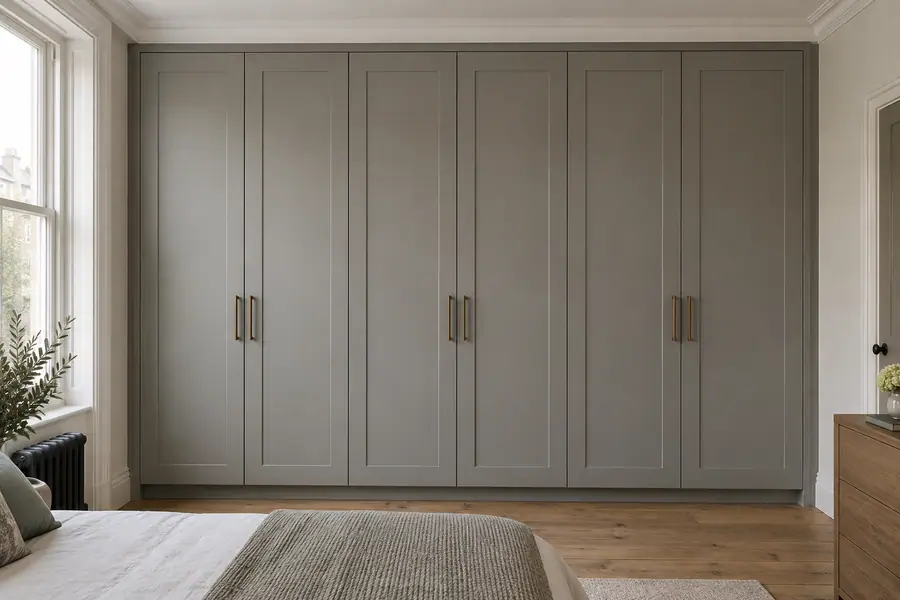
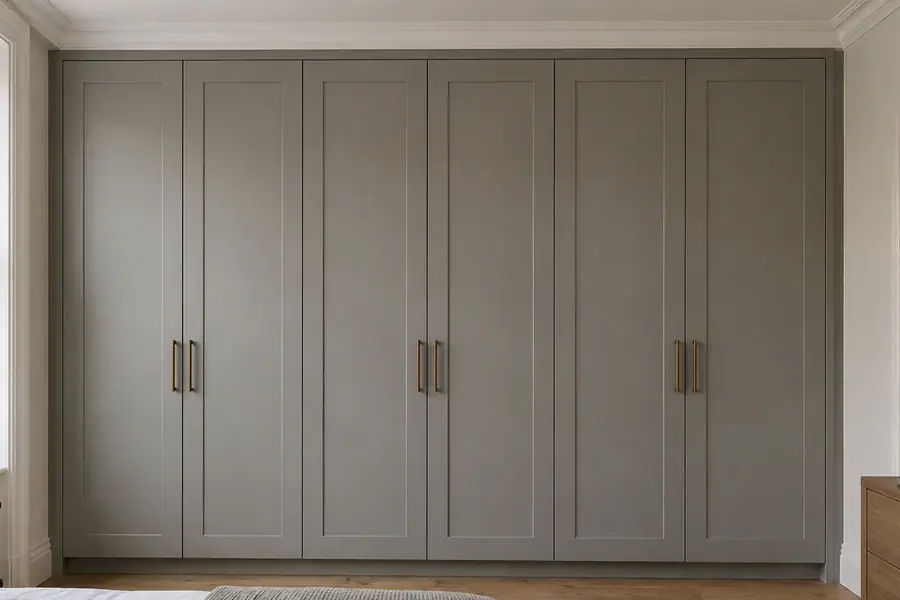
Camden: the grey wardrobe render cropped so the plant and the flowers are out of frame (Denis, 21 Nov)
Denis on the review link, 21 Nov 2026: "remove the plan[t] from this picture". Cropped from x 146 to
1335 x 890 (3:2) rather than painted out over the window and radiator or made again, so the joinery
Denis already passed on 19 Nov is untouched. The alt says what is now at the edges.

diff --git a/src/data/areas.ts b/src/data/areas.ts
@@ -152,12 +152,16 @@ export const AREAS: Area[] = [
       /* 19 Nov 2026, Denis: a framed picture on the wall ran into the door frame; it was painted
          out of the render (plain wall, filled from the wall above and below it). */
       {
+        /* 21 Nov 2026, Denis on the review link: "remove the plan[t] from this picture". Cropped (from
+           x 146 of the 1536 x 1024 render, 1335 x 890, still 3:2) so the plant by the window on the left
+           and the flowers on the chest of drawers on the right are out of frame, rather than painted
+           out over the window and radiator or made again. */
         file: "/images/journal/camden-ai-grey-shaker-wardrobes.webp",
         type: "Grey Shaker-style wardrobes",
         ai: true,
-        width: 1536,
-        height: 1024,
-        alt: "A wall-to-wall wardrobe with six full-height Shaker-style doors in three pairs, painted warm mid-grey, with slim aged-brass bar handles where each pair meets. The room's cornice runs across the top above a slim infill, slim side infills reach the floor and a recessed plinth runs beneath. A sash window and a bed sit either side.",
+        width: 1335,
+        height: 890,
+        alt: "A wall-to-wall wardrobe with six full-height Shaker-style doors in three pairs, painted warm mid-grey, with slim aged-brass bar handles where each pair meets. The room's cornice runs across the top above a slim infill, slim side infills reach the floor and a recessed plinth runs beneath. The edge of a white window surround is at the left, with the foot of a bed and a wooden chest of drawers in front.",
       },
     ],
     summary: "Stock-brick terraces of the 1820s to 1850s over basements, with mansard rooms and mews.",
